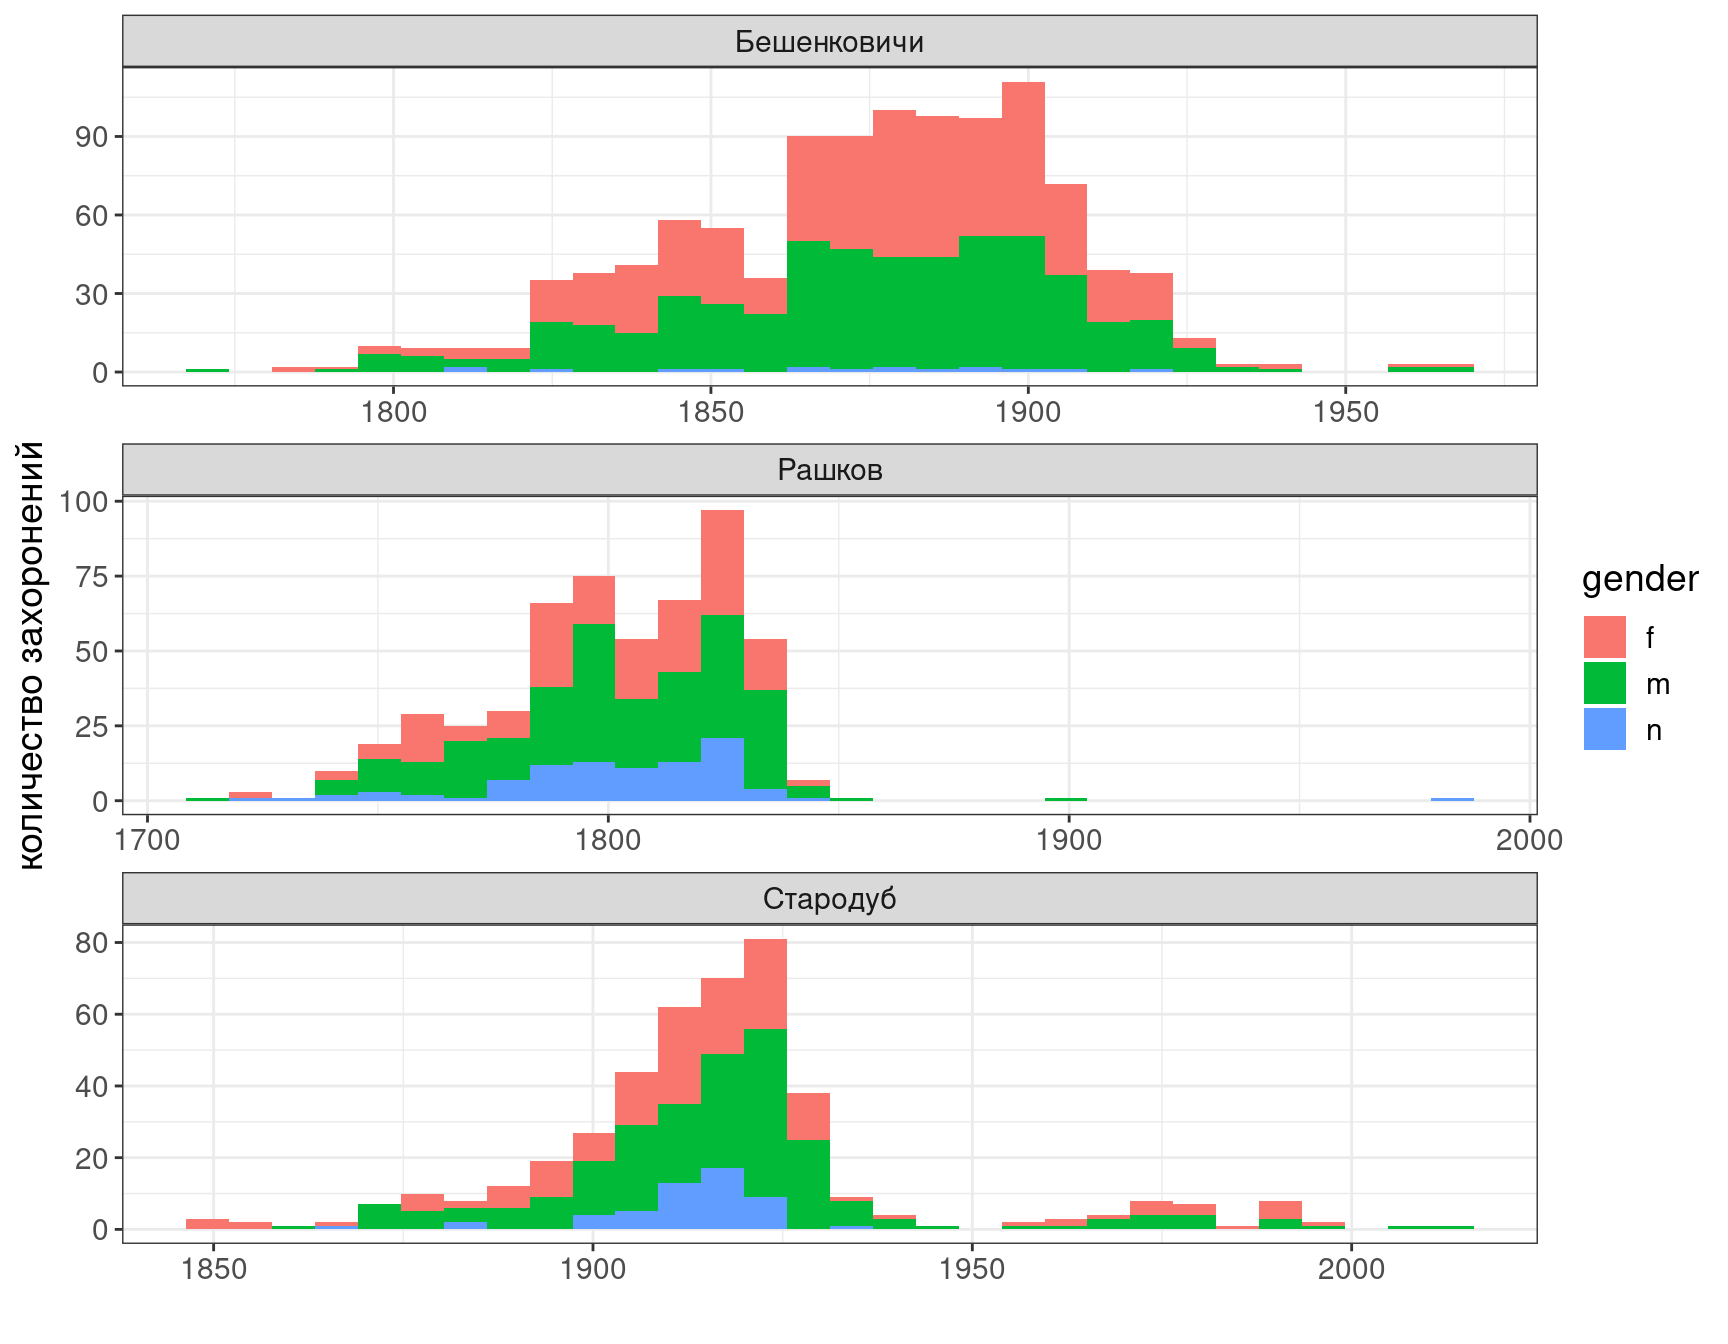
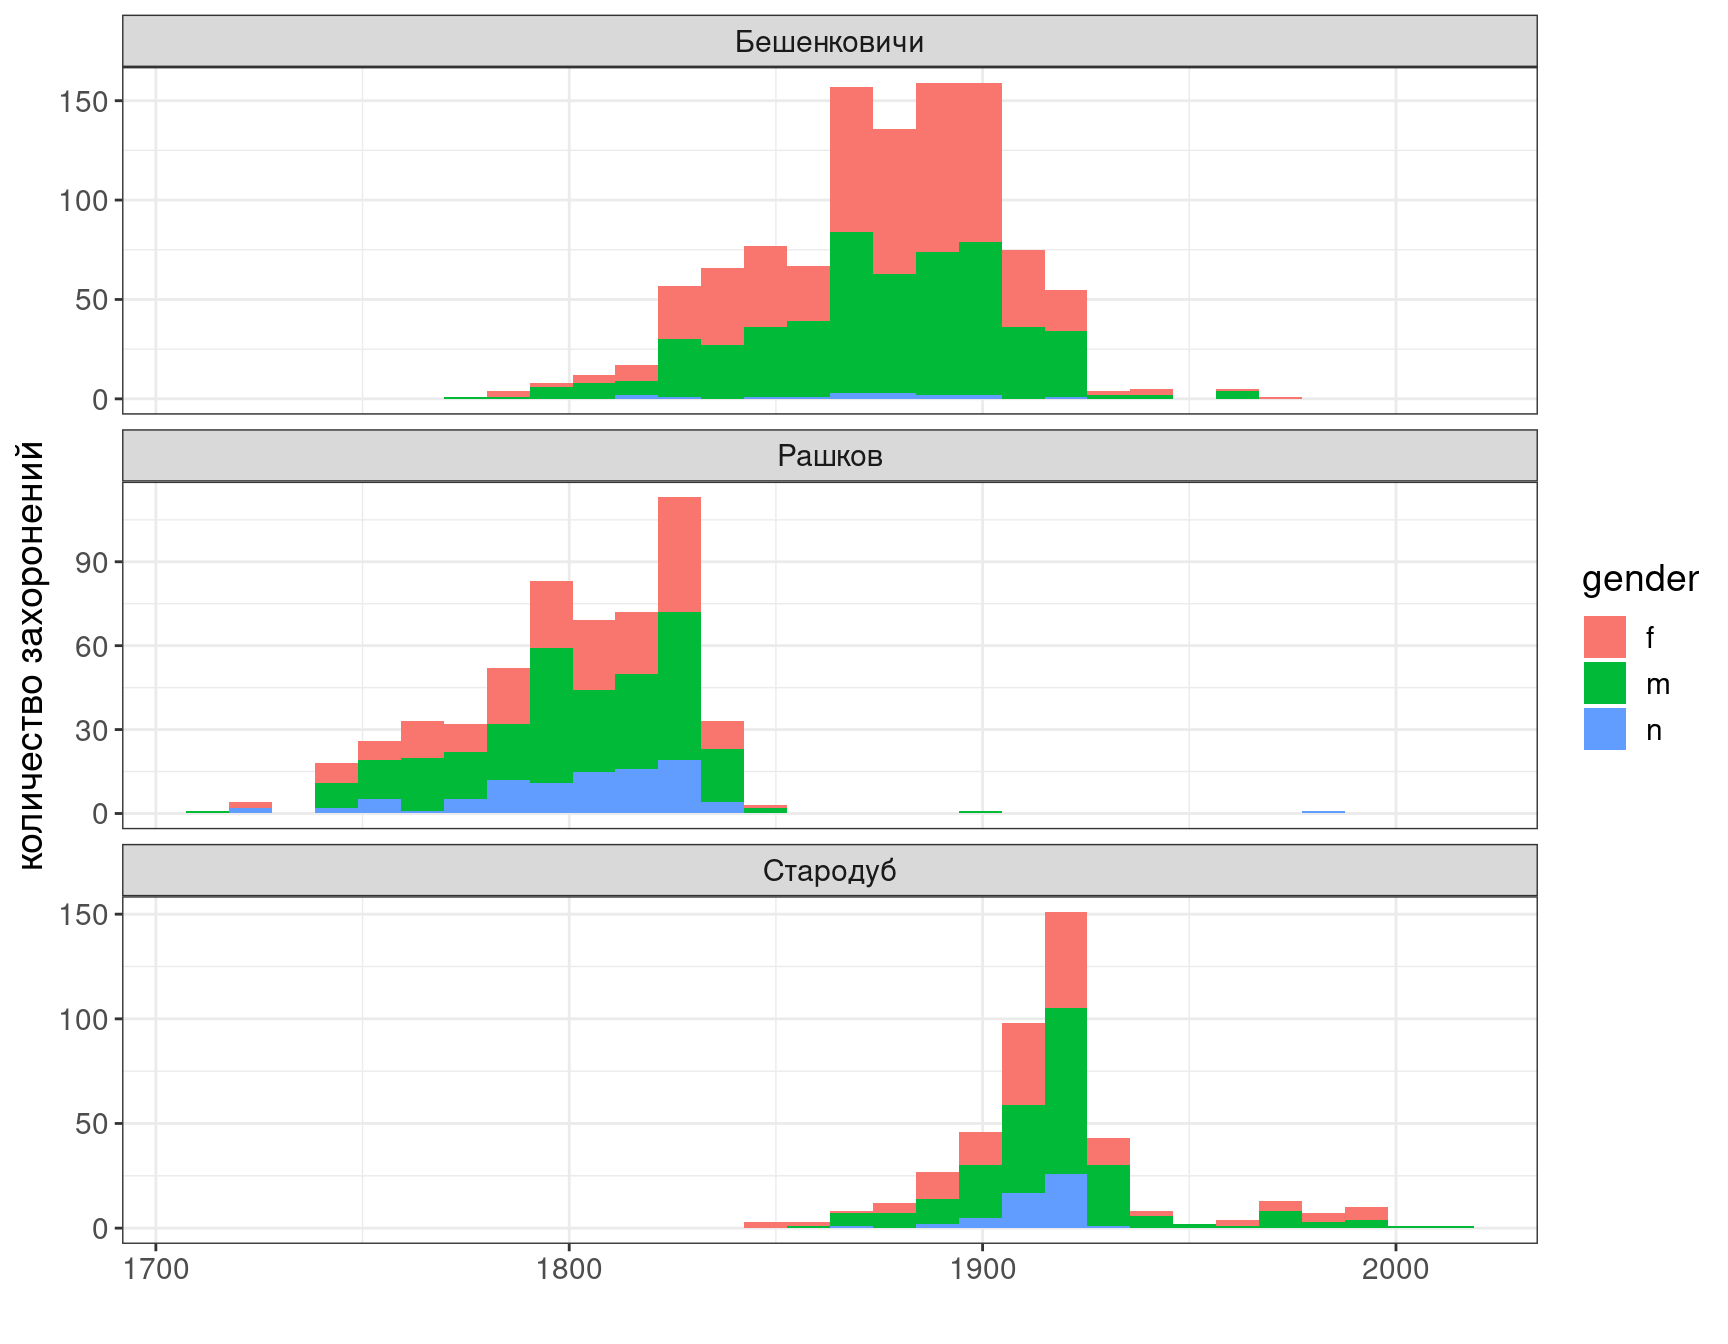
update materials

diff --git a/docs/визуализация-с-ggplot2.html b/docs/визуализация-с-ggplot2.html
@@ -308,7 +308,7 @@ code span.wa { color: #60a0b0; font-weight: bold; font-style: italic; } /* Warni
 <span id="cb13-4"><a href="визуализация-с-ggplot2.html#cb13-4" aria-hidden="true" tabindex="-1"></a>  <span class="fu">aes</span>(year, <span class="at">fill =</span> gender)<span class="sc">+</span></span>
 <span id="cb13-5"><a href="визуализация-с-ggplot2.html#cb13-5" aria-hidden="true" tabindex="-1"></a>  <span class="fu">geom_histogram</span>()<span class="sc">+</span></span>
 <span id="cb13-6"><a href="визуализация-с-ggplot2.html#cb13-6" aria-hidden="true" tabindex="-1"></a>  <span class="fu">labs</span>(<span class="at">x =</span> <span class="st">&quot;&quot;</span>, <span class="at">y =</span> <span class="st">&quot;количество захоронений&quot;</span>)<span class="sc">+</span></span>
-<span id="cb13-7"><a href="визуализация-с-ggplot2.html#cb13-7" aria-hidden="true" tabindex="-1"></a>  <span class="fu">facet_wrap</span>(<span class="sc">~</span>place, <span class="at">scales =</span> <span class="st">&quot;free&quot;</span>, <span class="at">nrow =</span> <span class="dv">3</span>)</span></code></pre></div>
+<span id="cb13-7"><a href="визуализация-с-ggplot2.html#cb13-7" aria-hidden="true" tabindex="-1"></a>  <span class="fu">facet_wrap</span>(<span class="sc">~</span>place, <span class="at">scales =</span> <span class="st">&quot;free_y&quot;</span>, <span class="at">nrow =</span> <span class="dv">3</span>)</span></code></pre></div>
 <p><img src="dh_epigraphy_2021_files/figure-html/unnamed-chunk-15-1.png" width="864" /></p>
 <div class="sourceCode" id="cb14"><pre class="sourceCode r"><code class="sourceCode r"><span id="cb14-1"><a href="визуализация-с-ggplot2.html#cb14-1" aria-hidden="true" tabindex="-1"></a>df <span class="sc">%&gt;%</span> </span>
 <span id="cb14-2"><a href="визуализация-с-ggplot2.html#cb14-2" aria-hidden="true" tabindex="-1"></a>  <span class="fu">filter</span>(<span class="sc">!</span><span class="fu">is.na</span>(year)) <span class="sc">%&gt;%</span></span>
@@ -333,7 +333,7 @@ code span.wa { color: #60a0b0; font-weight: bold; font-style: italic; } /* Warni
 <span id="cb15-8"><a href="визуализация-с-ggplot2.html#cb15-8" aria-hidden="true" tabindex="-1"></a>  <span class="fu">aes</span>(year, sum, <span class="at">color =</span> gender)<span class="sc">+</span></span>
 <span id="cb15-9"><a href="визуализация-с-ggplot2.html#cb15-9" aria-hidden="true" tabindex="-1"></a>  <span class="fu">geom_point</span>()<span class="sc">+</span></span>
 <span id="cb15-10"><a href="визуализация-с-ggplot2.html#cb15-10" aria-hidden="true" tabindex="-1"></a>  <span class="fu">geom_line</span>()<span class="sc">+</span></span>
-<span id="cb15-11"><a href="визуализация-с-ggplot2.html#cb15-11" aria-hidden="true" tabindex="-1"></a>  <span class="fu">facet_wrap</span>(<span class="sc">~</span>place, <span class="at">scales =</span> <span class="st">&quot;free&quot;</span>, <span class="at">nrow =</span> <span class="dv">3</span>)<span class="sc">+</span></span>
+<span id="cb15-11"><a href="визуализация-с-ggplot2.html#cb15-11" aria-hidden="true" tabindex="-1"></a>  <span class="fu">facet_wrap</span>(<span class="sc">~</span>place, <span class="at">scales =</span> <span class="st">&quot;free_y&quot;</span>, <span class="at">nrow =</span> <span class="dv">3</span>)<span class="sc">+</span></span>
 <span id="cb15-12"><a href="визуализация-с-ggplot2.html#cb15-12" aria-hidden="true" tabindex="-1"></a>  <span class="fu">labs</span>(<span class="at">x =</span> <span class="st">&quot;&quot;</span>, <span class="at">y =</span> <span class="st">&quot;кумулятивное количество захоронений&quot;</span>)</span></code></pre></div>
 <p><img src="dh_epigraphy_2021_files/figure-html/unnamed-chunk-17-1.png" width="864" /></p>
 <p>Какой вывод можно сделать на основании этого графика?</p>
@@ -409,7 +409,7 @@ code span.wa { color: #60a0b0; font-weight: bold; font-style: italic; } /* Warni
 <span id="cb21-8"><a href="визуализация-с-ggplot2.html#cb21-8" aria-hidden="true" tabindex="-1"></a>  <span class="fu">ggplot</span>()<span class="sc">+</span></span>
 <span id="cb21-9"><a href="визуализация-с-ggplot2.html#cb21-9" aria-hidden="true" tabindex="-1"></a>  <span class="fu">aes</span>(year, <span class="at">fill =</span> name)<span class="sc">+</span></span>
 <span id="cb21-10"><a href="визуализация-с-ggplot2.html#cb21-10" aria-hidden="true" tabindex="-1"></a>  <span class="fu">geom_histogram</span>()<span class="sc">+</span></span>
-<span id="cb21-11"><a href="визуализация-с-ggplot2.html#cb21-11" aria-hidden="true" tabindex="-1"></a>  <span class="fu">facet_wrap</span>(gender<span class="sc">~</span>place, <span class="at">scales =</span> <span class="st">&quot;free&quot;</span>, <span class="at">nrow =</span> <span class="dv">2</span>)<span class="sc">+</span></span>
+<span id="cb21-11"><a href="визуализация-с-ggplot2.html#cb21-11" aria-hidden="true" tabindex="-1"></a>  <span class="fu">facet_wrap</span>(gender<span class="sc">~</span>place, <span class="at">scales =</span> <span class="st">&quot;free_y&quot;</span>, <span class="at">nrow =</span> <span class="dv">2</span>)<span class="sc">+</span></span>
 <span id="cb21-12"><a href="визуализация-с-ggplot2.html#cb21-12" aria-hidden="true" tabindex="-1"></a>  <span class="fu">labs</span>(<span class="at">x =</span> <span class="st">&quot;&quot;</span>, <span class="at">y =</span> <span class="st">&quot;количество захоронений&quot;</span>)</span></code></pre></div>
 <p><img src="dh_epigraphy_2021_files/figure-html/unnamed-chunk-22-1.png" width="864" /></p>
 <div class="sourceCode" id="cb22"><pre class="sourceCode r"><code class="sourceCode r"><span id="cb22-1"><a href="визуализация-с-ggplot2.html#cb22-1" aria-hidden="true" tabindex="-1"></a>df <span class="sc">%&gt;%</span> </span>
